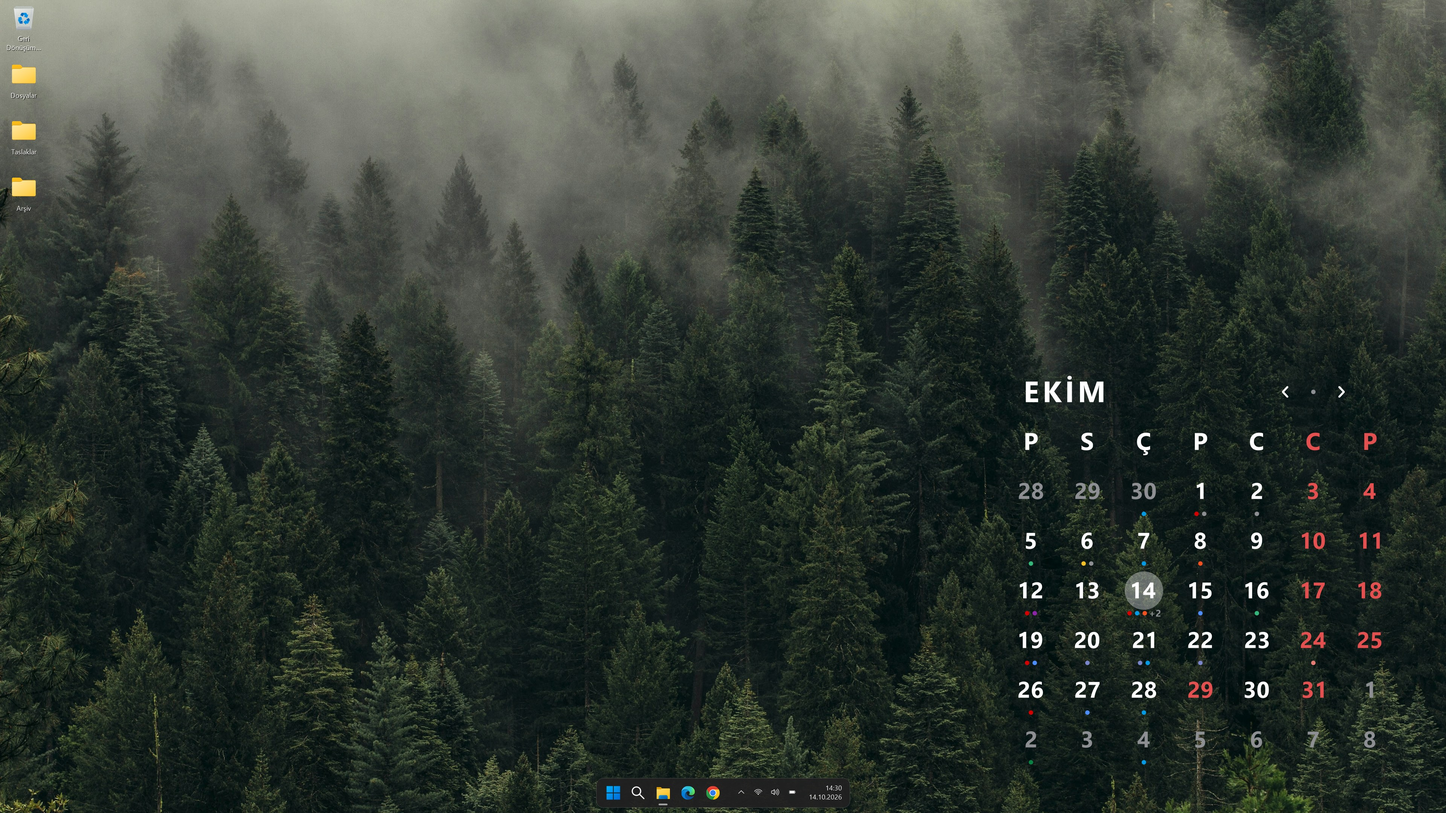
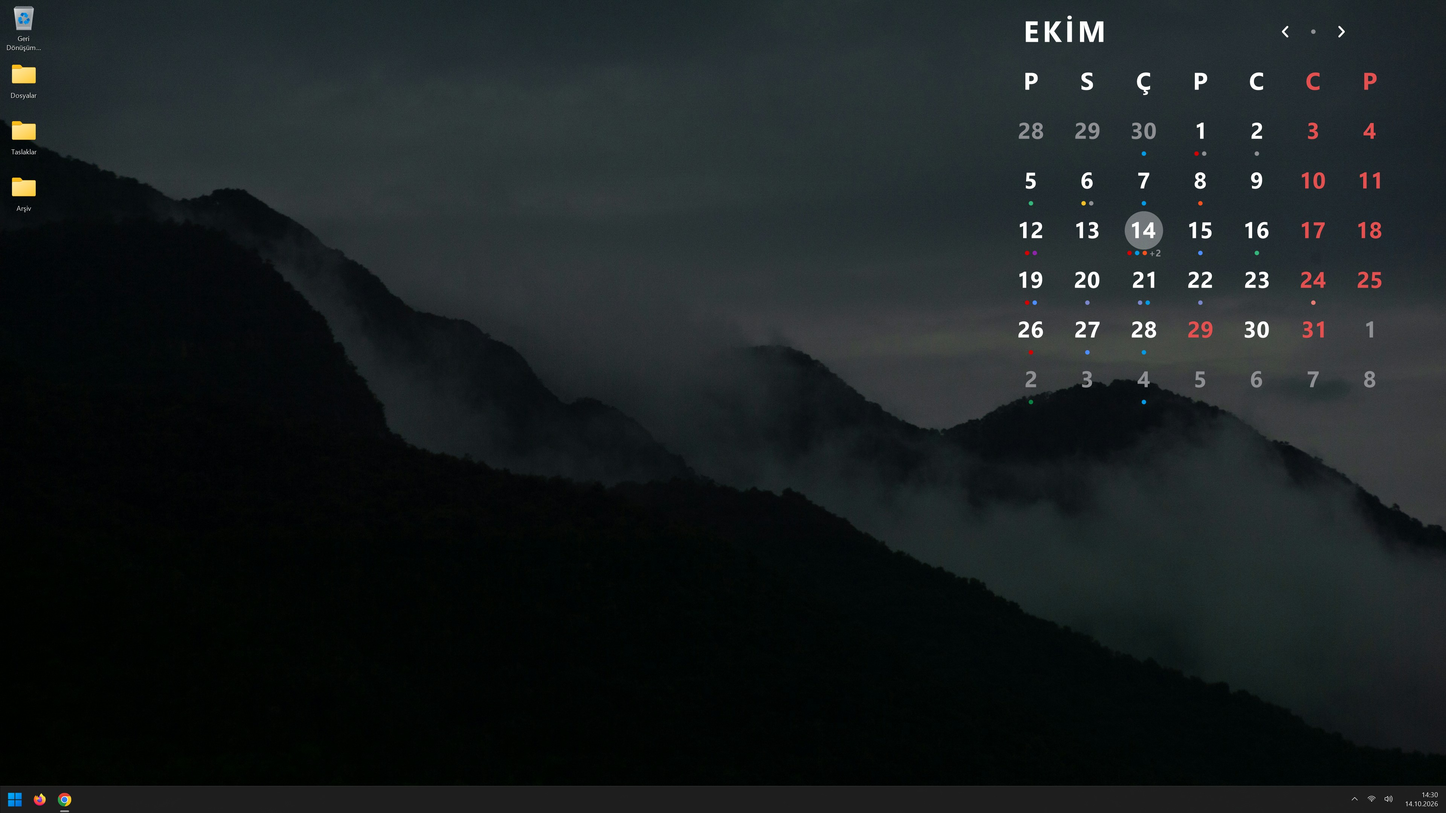
README: dağ fotoğraflı görüntüde takvim sağ üstte, ikinci sıraya alındı
Çam ormanlı görüntüyle yer değiştirdi. Takvim simgelerin hizasında, sağında bir
simge sütunu boş.

diff --git a/denemeler/ReadmeGorselleri/Program.cs b/denemeler/ReadmeGorselleri/Program.cs
@@ -105,24 +105,25 @@ internal static class Program
 
         // En üstteki görüntüler: masaüstü simgeleri ve Windows 11 görev çubuğuyla dört zemin.
         // 3840×2160 ve %150 ölçek: 2560×1440, %100 bir ekranın (kullanıcınınki) bir buçuk kat keskin hâli.
-        var masaustleri = new (string Ad, string? Foto, string? Renk, bool Ortada, bool AcikSerit)[]
+        // Ust: takvim sağ üstte (simgelerin hizasında); sağında yine bir simge sütunu boş.
+        var masaustleri = new (string Ad, string? Foto, string? Renk, bool Ortada, bool AcikSerit, bool Ust)[]
         {
-            ("masaustu-1.jpg", null, "#141A22", false, false),
-            ("masaustu-2.jpg", "sisli-cam-ormani", null, true, false),
-            ("masaustu-3.jpg", "sisli-dag-sirtlari", null, false, false),
-            ("masaustu-4.jpg", null, "#D9CFC1", true, true),
+            ("masaustu-1.jpg", null, "#141A22", false, false, false),
+            ("masaustu-2.jpg", "sisli-dag-sirtlari", null, false, false, true),
+            ("masaustu-3.jpg", "sisli-cam-ormani", null, true, false, false),
+            ("masaustu-4.jpg", null, "#D9CFC1", true, true, false),
         };
         foreach (var m in masaustleri)
         {
             (Bitmap r, Rectangle blok) = Ciz(new Size(3840, 2160), anlik,
-                m.Foto is null ? null : HazirFotograf(m.Foto), m.Renk, kutu: false);
+                m.Foto is null ? null : HazirFotograf(m.Foto), m.Renk, kutu: false, ust: m.Ust);
             Masaustu.Ciz(r, 1.5, blok, m.Ortada, m.AcikSerit);
             Kaydet(r, Path.Combine(cikti, m.Ad));
             Console.WriteLine(m.Ad);
         }
 
         // Gün kutusu: koyu düz zemin (Kuzgun), takvimin çevresi de görünsün, iki kat piksel.
-        (Bitmap resim, Rectangle alan) = Ciz(new Size(5120, 2880), anlik, null, "#0B0E13", kutu: true);
+        (Bitmap resim, Rectangle alan) = Ciz(new Size(5120, 2880), anlik, null, "#0B0E13", kutu: true, ust: false);
         // Takvim ekranın sağ altında: sağa ve alta ekran kenarına kadar, sola ve yukarı biraz masaüstü.
         int sag = Math.Min(resim.Width, alan.Right + 600);
         int alt = Math.Min(resim.Height, alan.Bottom + 300);
@@ -215,7 +216,7 @@ internal static class Program
         return Activator.CreateInstance(Tip("Kalender.Calendar.CalendarDataSnapshot"), gunler)!;
     }
 
-    private static (Bitmap Resim, Rectangle Alan) Ciz(Size boyut, object anlik, string? foto, string? renk, bool kutu)
+    private static (Bitmap Resim, Rectangle Alan) Ciz(Size boyut, object anlik, string? foto, string? renk, bool kutu, bool ust)
     {
         object store = Activator.CreateInstance(Tip("Kalender.Settings.SettingsStore"))!;
         object ayarlar = Oku(store, "Current")!;
@@ -233,6 +234,12 @@ internal static class Program
         }
 
         object yer = Activator.CreateInstance(Tip("Kalender.Settings.MonitorPlacement"))!;
+        if (ust)
+        {
+            // Yatayda varsayılan yer kalır; dikeyde en üste (çizici kenar payında durdurur).
+            Yaz(yer, "YRatio", 0.0);
+        }
+
         object cizici = Activator.CreateInstance(Tip("Kalender.Rendering.DesktopSurfaceRenderer"))!;
         object yuzey = cizici.GetType().GetMethod("Render")!.Invoke(cizici,
             new[] { boyut, ayarlar, yer, anlik, Bugun, Bugun, true })!;

diff --git a/README.md b/README.md
@@ -12,7 +12,7 @@ Takvim konumu, boyutu ve renkleri özelleştirilebilir.
 
 ![Kalender, koyu düz renk (Mürekkep) zeminde: masaüstü simgeleri, Windows 11 görev çubuğu ve sağ altta renkli noktacıklı Ekim takvimi](docs/masaustu-1.jpg)
 
-![Kalender, sisli çam ormanı fotoğrafında, ortada kısa görev çubuğuyla](docs/masaustu-2.jpg)
+![Kalender, sisli dağ sırtları fotoğrafında, sağ üstte takvim](docs/masaustu-2.jpg)
 
 ## Kurulum
 
@@ -44,7 +44,7 @@ Görüntülerdeki etkinlik ve görevler örnektir.
 Takvim duvar kâğıdının bir parçası olarak çizilir. Zemin düz renk, uygulamayla gelen dört fotoğraftan biri ya da kendi
 fotoğrafınız olabilir.
 
-![Kalender, sisli dağ sırtları fotoğrafında](docs/masaustu-3.jpg)
+![Kalender, sisli çam ormanı fotoğrafında, ortada kısa görev çubuğuyla](docs/masaustu-3.jpg)
 
 ![Kalender, açık düz renk zeminde: yazılar koyu, görev çubuğu açık](docs/masaustu-4.jpg)
 
